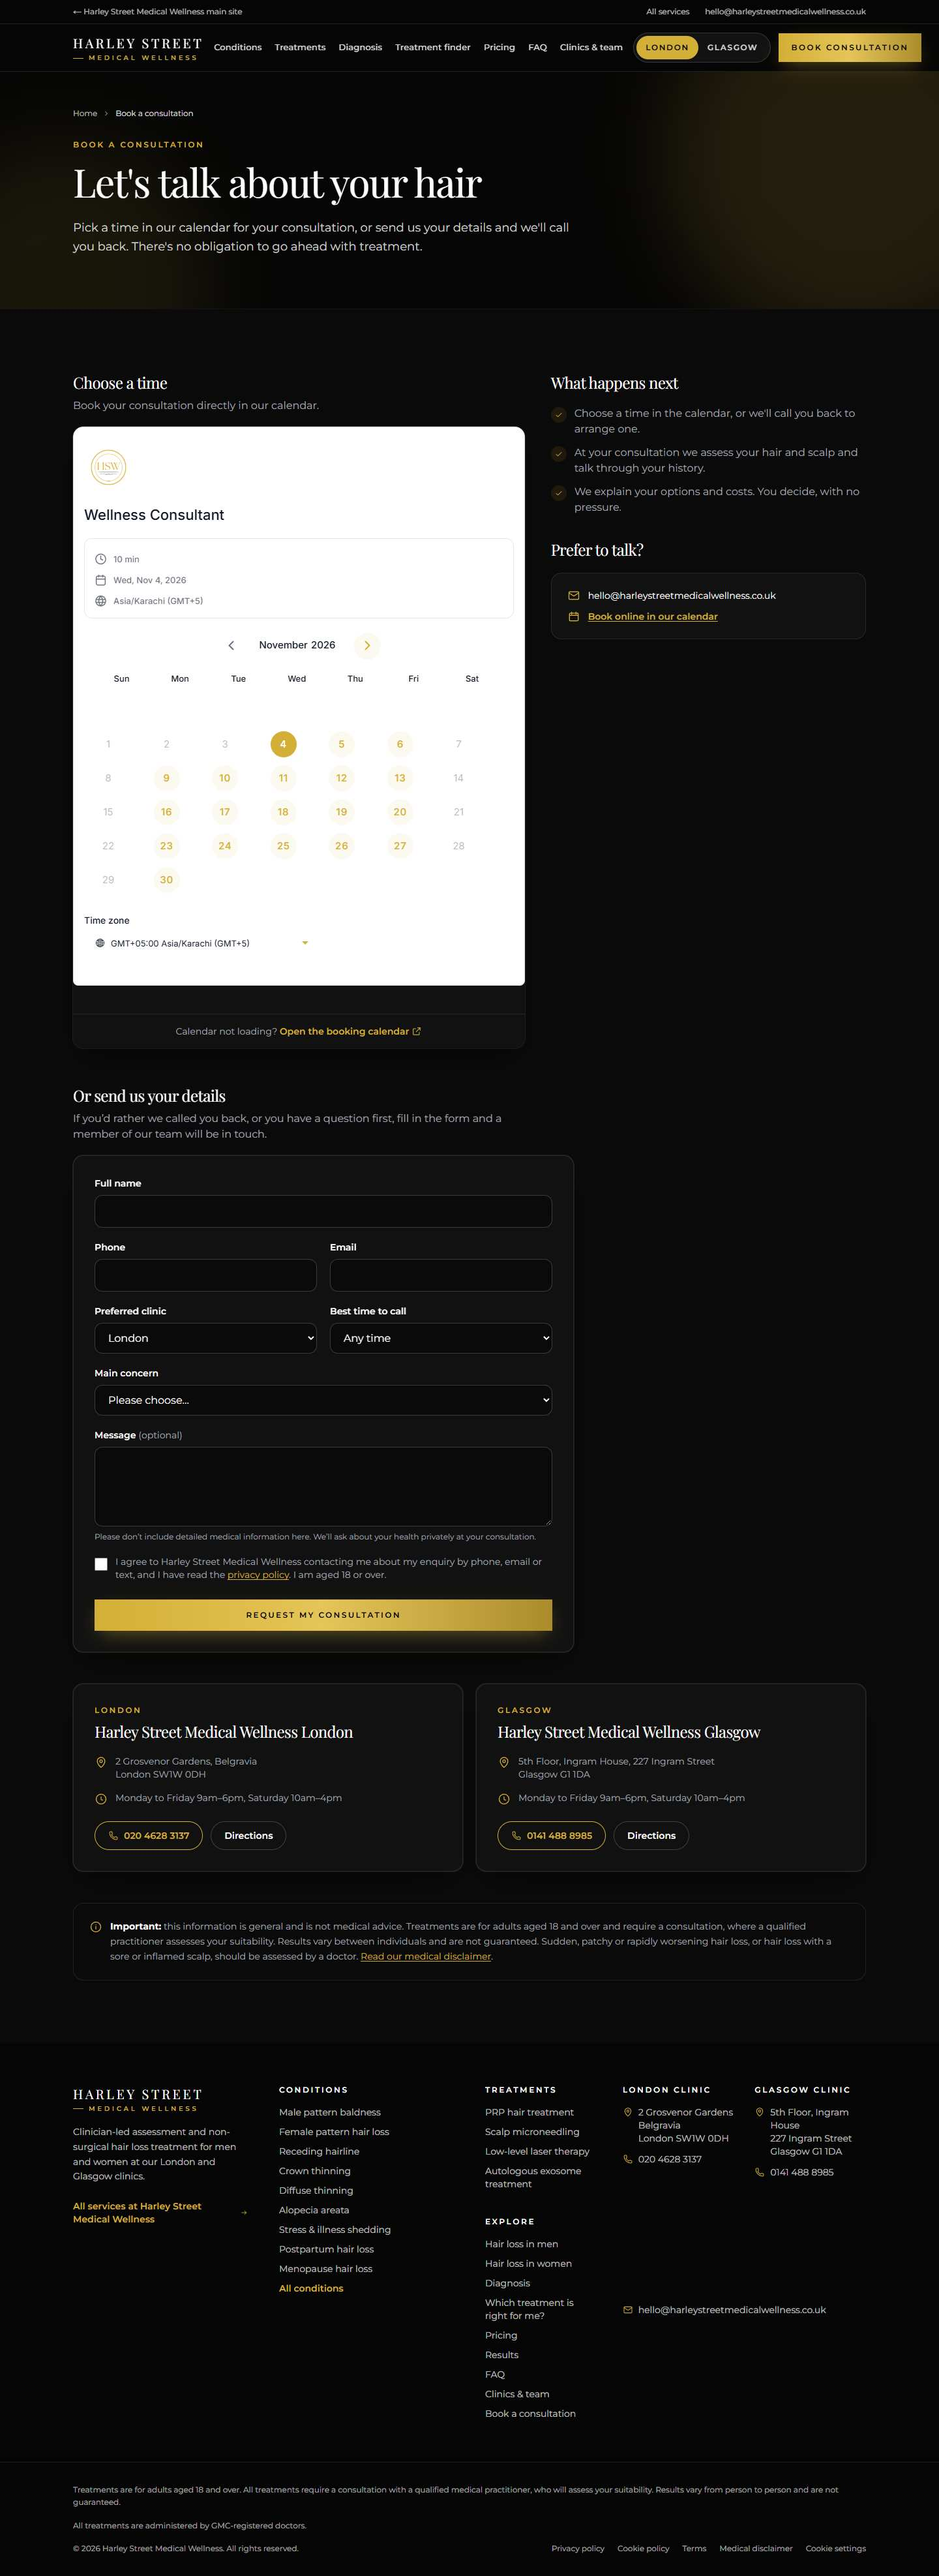
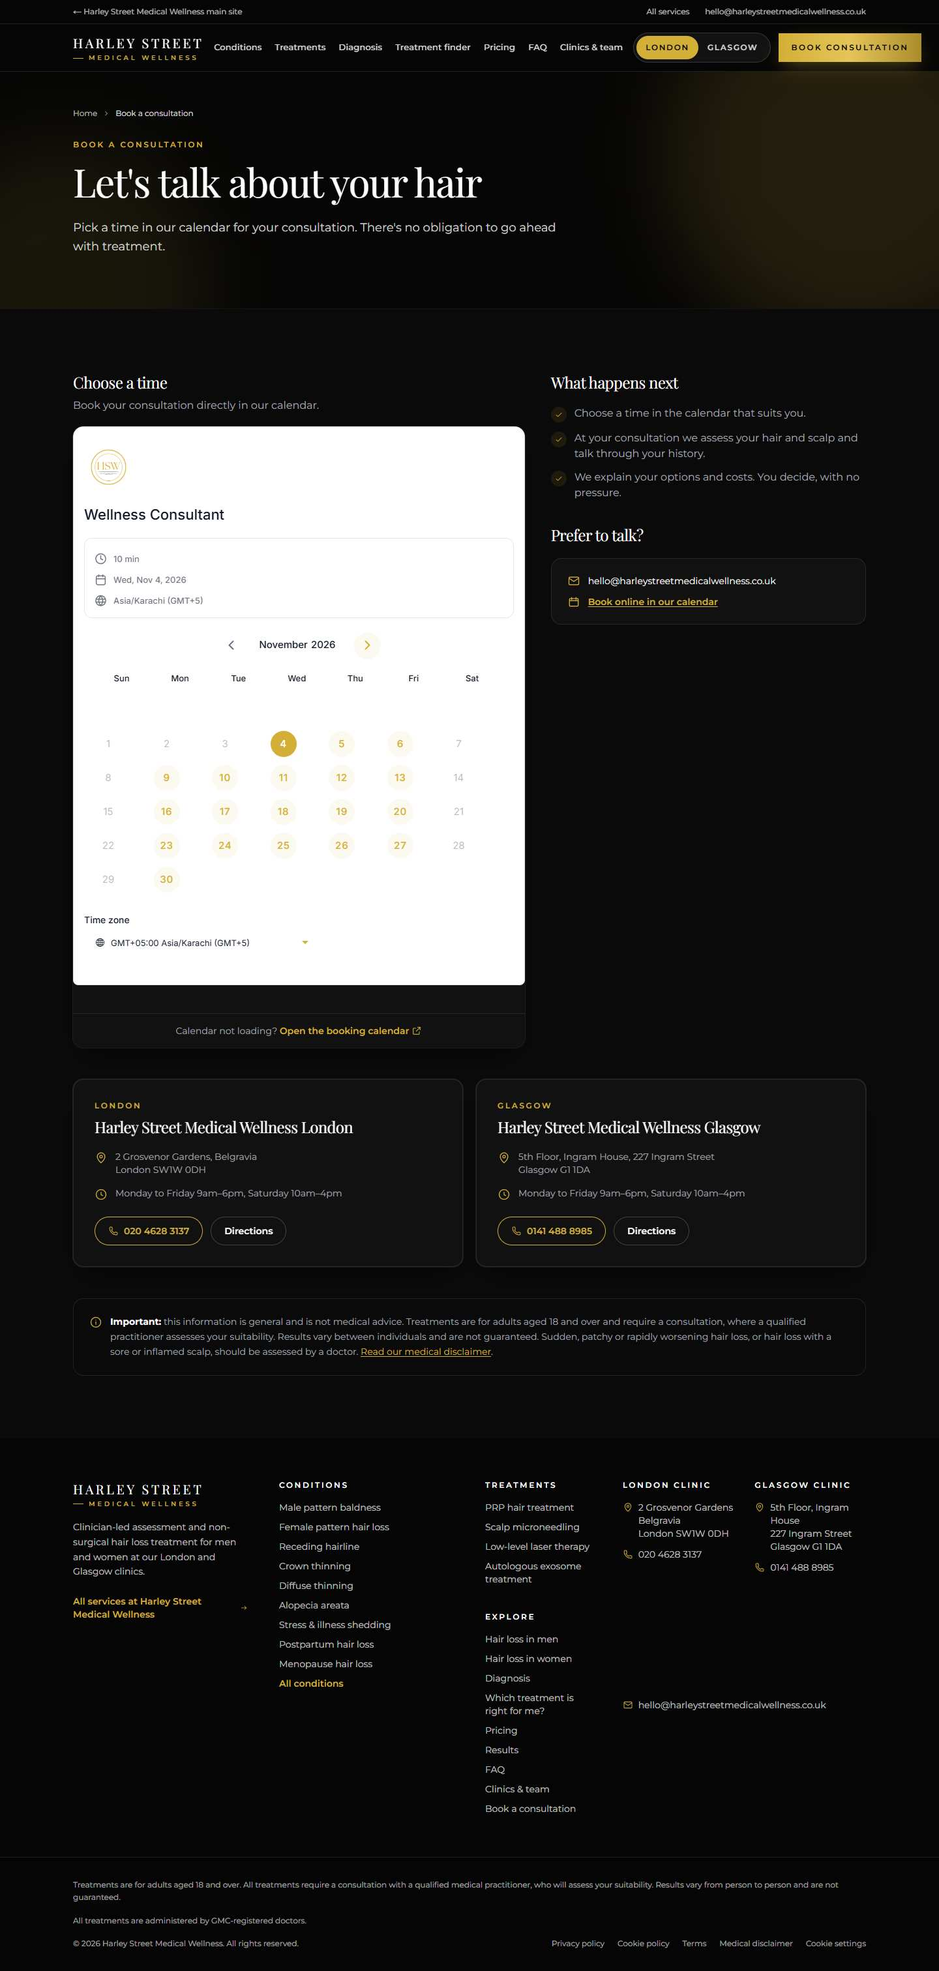
Remove the enquiry form; booking is calendar-only
Delete EnquiryForm, lib/form.ts and public/__forms.html, and drop the Netlify Forms setup from robots, netlify.toml and the deployment guide. Update the privacy policy and FAQ to describe booking through the calendar, phone and email. QA script now checks the calendar instead of the form.

diff --git a/src/app/book/page.tsx b/src/app/book/page.tsx
@@ -1,4 +1,3 @@
-import { EnquiryForm } from "@/components/EnquiryForm";
 import { BookingCalendar, ClinicCards, ContactLinks } from "@/components/sections";
 import { CheckList, Disclaimer, PageHero, Section } from "@/components/ui";
 import { pageMetadata } from "@/lib/seo";
@@ -6,7 +5,7 @@ import { pageMetadata } from "@/lib/seo";
 export const metadata = pageMetadata({
   title: "Book a Hair Loss Consultation",
   description:
-    "Book a hair loss consultation at Harley Street Medical Wellness in London or Glasgow. Choose a time in our calendar, send an enquiry or call your nearest clinic.",
+    "Book a hair loss consultation at Harley Street Medical Wellness in London or Glasgow. Choose a time in our calendar, or call your nearest clinic.",
   path: "/book/",
 });
 
@@ -16,7 +15,7 @@ export default function BookPage() {
       <PageHero
         eyebrow="Book a consultation"
         title="Let's talk about your hair"
-        intro="Pick a time in our calendar for your consultation, or send us your details and we'll call you back. There's no obligation to go ahead with treatment."
+        intro="Pick a time in our calendar for your consultation. There's no obligation to go ahead with treatment."
         crumbs={[{ name: "Book a consultation", path: "/book/" }]}
       />
       <Section tone="soft" labelledBy="calendar-title">
@@ -32,23 +31,13 @@ export default function BookPage() {
             <h2 className="font-serif text-2xl">What happens next</h2>
             <CheckList
               items={[
-                "Choose a time in the calendar, or we'll call you back to arrange one.",
+                "Choose a time in the calendar that suits you.",
                 "At your consultation we assess your hair and scalp and talk through your history.",
                 "We explain your options and costs. You decide, with no pressure.",
               ]}
             />
             <h2 className="pt-4 font-serif text-2xl">Prefer to talk?</h2>
             <ContactLinks />
-          </div>
-        </div>
-        <div className="mt-14">
-          <h2 className="font-serif text-2xl">Or send us your details</h2>
-          <p className="mt-2 mb-5 max-w-2xl text-stone">
-            If you&rsquo;d rather we called you back, or you have a question first, fill in the form and a member of our team will be in
-            touch.
-          </p>
-          <div className="max-w-3xl">
-            <EnquiryForm />
           </div>
         </div>
         <div className="mt-12">

diff --git a/src/app/privacy-policy/page.tsx b/src/app/privacy-policy/page.tsx
@@ -21,14 +21,13 @@ export default function PrivacyPage() {
       </p>
       <h2>What we collect</h2>
       <ul>
-        <li>Details you give us in the enquiry form or when you contact us: your name, phone number, email, preferred clinic, best time to call, main concern and any message.</li>
-        <li>Details you give when you book through our online booking calendar.</li>
+        <li>Details you give when you book through our online booking calendar, or when you contact us by phone or email: your name, phone number, email and what you&rsquo;d like to discuss.</li>
         <li>Records of your consent choices (cookie preferences, and your agreement to be contacted).</li>
         <li>If you accept analytics or marketing cookies: information about how you use the site (see our <Link href="/cookie-policy/">cookie policy</Link>).</li>
       </ul>
       <p>
-        Your &ldquo;main concern&rdquo; can relate to your health. We use it only to arrange the right consultation. Please don&rsquo;t send
-        detailed medical information through the website form; your practitioner will collect your medical history securely at consultation.
+        What you tell us when booking can relate to your health. We use it only to arrange the right consultation. Please don&rsquo;t send
+        detailed medical information when you book; your practitioner will collect your medical history securely at consultation.
       </p>
       <p>
         The &ldquo;Which treatment is right for me?&rdquo; questions run entirely in your browser. Your answers are not stored or sent to us.
@@ -41,7 +40,7 @@ export default function PrivacyPage() {
       </ul>
       <h2>Who we share it with</h2>
       <p>
-        Our website hosting and form provider (Netlify), our booking calendar provider, our email
+        Our website hosting provider (Netlify), our booking calendar provider, our email
         and customer-management providers and, if you consent, Google and Meta for analytics and advertising measurement. Some of these
         providers may process data outside the UK under appropriate safeguards.
       </p>

diff --git a/src/lib/faqs.ts b/src/lib/faqs.ts
@@ -39,6 +39,6 @@ export const GENERAL_FAQS: Faq[] = [
   },
   {
     q: "Is my information kept private?",
-    a: "Yes. We handle your personal and health information confidentially and in line with UK data protection law. Please don't include detailed medical information in the enquiry form; we'll ask about this privately at your consultation.",
+    a: "Yes. We handle your personal and health information confidentially and in line with UK data protection law. Please don't include detailed medical information when you book; we'll ask about this privately at your consultation.",
   },
 ];

diff --git a/src/app/robots.ts b/src/app/robots.ts
@@ -7,7 +7,7 @@ export const dynamic = "force-static";
 // Blocks all crawling until NEXT_PUBLIC_ALLOW_INDEXING=true at launch (docs/decisions.md #13).
 export default function robots(): MetadataRoute.Robots {
   return {
-    rules: ALLOW_INDEXING ? { userAgent: "*", allow: "/", disallow: ["/__forms.html"] } : { userAgent: "*", disallow: "/" },
+    rules: ALLOW_INDEXING ? { userAgent: "*", allow: "/" } : { userAgent: "*", disallow: "/" },
     host: SITE_URL,
     sitemap: absUrl("/sitemap.xml"),
   };

diff --git a/docs/deployment.md b/docs/deployment.md
@@ -21,7 +21,6 @@ The Endolift project's own `docs/deployment.md` wasn't available (its source fol
    - `NEXT_PUBLIC_SITE_URL` = `https://hairloss.harleystreetmedicalwellness.co.uk` (already in `netlify.toml`)
    - `NEXT_PUBLIC_ALLOW_INDEXING` = `false` until launch, then `true` and redeploy
    - `NEXT_PUBLIC_GTM_ID` / `NEXT_PUBLIC_GA4_ID` / `NEXT_PUBLIC_META_PIXEL_ID` when confirmed
-4. **Forms.** Site configuration → Forms → **Enable form detection**, then redeploy. The `hair-enquiry` form is defined in `public/__forms.html`. Add a form notification (email or webhook to your CRM) under Forms → Form notifications. Test one submission.
 5. **Deploy.** Netlify builds automatically. Check the `*.netlify.app` URL before adding the domain.
 6. **Custom domain.** Domain management → Add a domain → `hairloss.harleystreetmedicalwellness.co.uk` → choose "Add domain" (external DNS). Netlify shows the target, which will be your site's `<site-name>.netlify.app`.
 7. **DNS record at Namecheap** (Advanced DNS → Add new record):
@@ -45,14 +44,12 @@ The Endolift project's own `docs/deployment.md` wasn't available (its source fol
 ## Option B: Vercel
 1. Import the repo at vercel.com/new. `vercel.json` sets `npm run build` and output `out`. Framework preset: "Other" (it's a static export).
 2. Add the same environment variables.
-3. Forms: Netlify Forms won't work on Vercel. Point the enquiry form at your CRM/webhook (`src/components/EnquiryForm.tsx`, `fetch` URL) before deploying.
 4. Domains → add `hairloss.harleystreetmedicalwellness.co.uk`. Vercel shows a CNAME target (`cname.vercel-dns.com`). Add at Namecheap: CNAME, host `hairloss`, value `cname.vercel-dns.com.`
 5. SSL is automatic. Confirm with the same `nslookup` / `curl -I` checks.
 
 ## Option C: Hostinger (same host as the Endolift preview)
 1. `npm run build`, then upload the contents of `out/` to the site's `public_html` (File Manager or FTP).
 2. Hostinger serves `index.html` in each folder, which matches the trailing-slash URLs.
-3. Forms: as with Vercel, Netlify Forms won't work. Connect the form to your CRM/webhook first.
 4. Add the subdomain in hPanel, then at Namecheap add the record hPanel gives you (usually a CNAME for `hairloss` to the Hostinger hostname, or an A record to the server IP).
 5. Enable the free SSL in hPanel → Security → SSL, then run the same checks.
 

diff --git a/docs/decisions.md b/docs/decisions.md
@@ -30,4 +30,5 @@
 | 27 | 2026-11-03 | Added two more concerns: PCOS/hormonal thinning and hair breakage (17 conditions). | You asked for every hair loss concern to be covered. |
 | 28 | 2026-11-03 | Removed all `[TBC]` placeholders; anything not found in the Copilot or on the websites is left off the site (supersedes #8). Added the Wellness blood test (£295) from the Copilot. Footer regulator line replaced with the Wellness site's "administered by GMC-registered doctors". | Your instruction (3 Nov). |
 | 29 | 2026-11-04 | Embedded the clinic's own booking calendar (`link.harleystreetmedicalwellness.co.uk/widget/bookings/wellness-consultant-1`) on `/book/` and the home page, with a fallback link, as on the Endolift site. The enquiry form stays underneath as the call-back option. | Your instruction to book directly in the calendar, following the Endolift approach. |
+| 30 | 2026-11-04 | Removed the enquiry form, `lib/form.ts` and `public/__forms.html`; the booking page is now calendar-only. Netlify Forms setup dropped from the deployment guide. Supersedes #11 and #12. | Your instruction: people book directly in the clinic calendar, so the call-back form isn't needed. |
 | 17 | 2026-11-02 | Netlify is the primary host (`netlify.toml`), with Vercel as an alternative. | Brief. Note: the Endolift build is currently on a Hostinger preview, so `docs/deployment.md` also covers Hostinger. |

diff --git a/docs/plan.md b/docs/plan.md
@@ -35,7 +35,7 @@
 | `/faq/` | FAQ | |
 | `/about/` | Clinics & team | |
 | `/london/`, `/glasgow/` | Location pages | hair loss clinic London / Glasgow |
-| `/book/` | Book a consultation: enquiry form, calendar, phone, WhatsApp | |
+| `/book/` | Book a consultation: booking calendar, phone, email | |
 | `/privacy-policy/`, `/cookie-policy/`, `/terms/`, `/medical-disclaimer/` | Legal | |
 | `/sitemap.xml`, `/robots.txt` | SEO | |
 
@@ -70,7 +70,7 @@ Not built until confirmed: trichoscopy page, DNA testing, blood test page, trans
 
 **Pricing**: table of treatments with `[TBC]` prices, consultation `[TBC]`, finance line `[TBC]`, "price confirmed at consultation".
 
-**Book**: hero → enquiry form (name, phone, email, clinic, main concern, preferred time, message, consent, honeypot) + side panel with clinic cards, WhatsApp, calendar link `[TBC]`.
+**Book**: hero → embedded booking calendar + side panel with what happens next, contact details and clinic cards. (Updated 4 Nov 2026: the enquiry form was removed; people book directly in the clinic calendar.)
 
 ## Components
 Layout: `UtilityBar`, `Header` (wordmark → main site, nav, `LocationSwitcher`, phone, CTA, `MobileMenu`), `Footer`, `StickyMobileBar`, `CookieConsent`, `Analytics`, `SkipLink`.

diff --git a/docs/review-checklist.md b/docs/review-checklist.md
@@ -89,7 +89,6 @@ Where the data lives: prices and facts in `src/lib/treatments.ts` (`facts`, `pri
 - [x] Every `[TBC]` filled or removed (`npm run check:tbc` prints 0).
 - [ ] Clinician sign-off of all condition and treatment copy.
 - [ ] Compliance sign-off of items in section 2.
-- [ ] Confirm enquiry destination; switch the form from Netlify Forms if needed (`src/components/EnquiryForm.tsx`, TODO comment).
 - [ ] Add GA4/GTM/Pixel IDs as environment variables; test that nothing loads before consent.
 - [ ] Add real clinic/team photography (WebP/AVIF, with alt text) if wanted.
 - [ ] Decide the 301 redirects from the old Harley Street Medics hair pages (`docs/deployment.md`).
